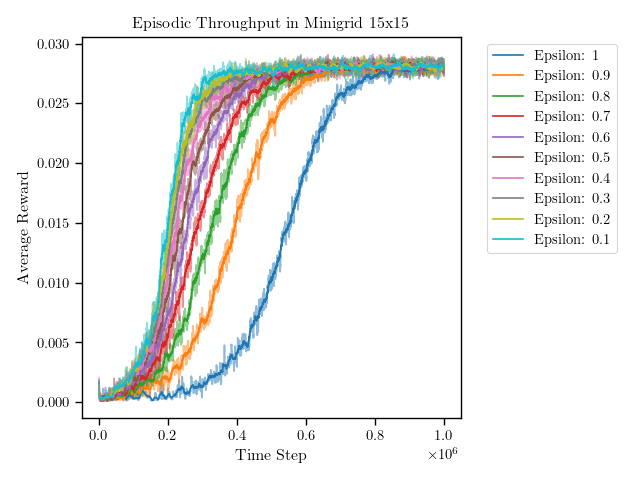
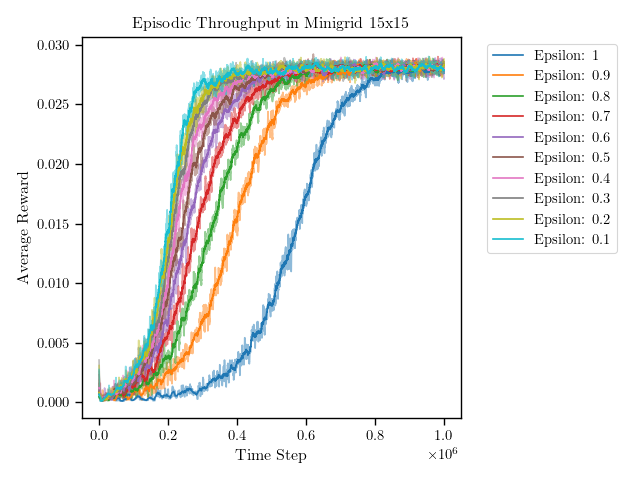
plots

diff --git a/tuning_test.py b/tuning_test.py
@@ -1,0 +1,110 @@
+from environments.MDP import Minigrid_MDP
+from environments.LMDP import Minigrid
+import numpy as np
+import time
+from utils.plot import Plotter, Minigrid_MDP_Plotter
+from models.zlearning import ZLearning, Zlearning_training
+from models.qlearning import QLearning, Qlearning_training
+from utils.lmdp_plot import Minigrid_LMDP_Plotter
+from scipy.sparse import csr_matrix
+
+if __name__ == "__main__":
+
+    grid_size = 15
+    walls = [(14,1), (1,8), (5, 5), (12, 5), (8, 7), (2,5), (3,5), (4,5), (6,5), (7,5), (8,5), (9,5), (10,5), (11,5), (13,5), (15,9)]
+    
+    # MDP
+    minigrid_mdp = Minigrid_MDP(grid_size=grid_size, walls = walls)
+    minigrid_mdp_plots = Minigrid_MDP_Plotter(minigrid_mdp)
+
+    gamma = 1
+    epsilon = 1e-10
+    n_iters = int(4e5)
+
+    # Value Iteration MDP
+    Q, opt_policy, n_steps = minigrid_mdp.value_iteration(epsilon, gamma)
+    
+    # LMDP
+    minigrid = Minigrid(grid_size=grid_size, walls=walls)
+    minigrid_plots = Minigrid_LMDP_Plotter(minigrid)
+
+    # Power Iteration LMDP
+    lmbda = 1
+    Z, n_steps = minigrid.power_iteration(lmbda = lmbda, epsilon=epsilon)
+    print("Power iteration took: ", n_steps, " steps before converging with epsilon:", epsilon)
+    print("\n\n")
+    PU = minigrid.compute_Pu(Z)
+    V = minigrid.Z_to_V(Z)
+
+    # Embedded MDP
+    mdp_minigrid = minigrid.embedding_to_MDP()
+    minigrid_mdp_embedded_plots = Minigrid_MDP_Plotter(mdp_minigrid)
+    start_time = time.time()
+    Q2, opt_policy2, n_steps = mdp_minigrid.value_iteration(epsilon, gamma)
+    print("Value iteration took: ", n_steps, " steps before converging with epsilon:", epsilon)
+    print("--- %s minutes and %s seconds ---" % (int((time.time() - start_time)/60), int((time.time() - start_time) % 60)))
+
+    # epsilons = [1, 0.9, 0.8, 0.7, 0.6, 0.5, 0.4, 0.3, 0.2, 0.1]
+    # q_throughputs = []
+    # q_names = []
+    # q_errors = []
+    # q_policy_differences = []
+
+    # for epsilon in epsilons:
+    #     qlearning = QLearning(mdp_minigrid, gamma=gamma, learning_rate=0.25, learning_rate_decay=0.99995, learning_rate_min=0.0005, epsilon=epsilon, epsilon_decay=0.9995, epsilon_min = 0)
+    #     Q_est, est_policy, _, throughputs = Qlearning_training(qlearning, n_steps=n_iters)
+    #     q_throughputs.append(throughputs)
+    #     q_names.append('Epsilon: ' + str(epsilon))
+    #     q_errors.append(np.sum(np.abs(Q2-Q_est))/np.sum(np.abs(Q2)))
+    #     q_policy_differences.append(np.sum(opt_policy2 != est_policy))
+
+
+    # minigrid_mdp_embedded_plots.plot_throughput(q_throughputs, minigrid.grid_size, names = q_names, save_path='plots\Q_epsilon2')
+    #minigrid_mdp_embedded_plots.plot_value_per_hyperparameter(q_errors, epsilons, title = 'Value Function Approximation Error by Exploration', xlabel = 'Epsilon', ylabel = 'Approximation Error', save_path = 'plots\Q_epsilon_error2')
+    #minigrid_mdp_embedded_plots.plot_value_per_hyperparameter(q_policy_differences, epsilons, title = 'Policy Differences by Exploration', xlabel = 'Epsilon', ylabel = 'Policy Differences', save_path = 'plots\Q_epsilon_policy_difference2')
+
+    # epsilon_decays = [0.9995, 0.999, 0.995, 0.99]
+    # q_throughputs = []
+    # q_names = []
+    # q_errors = []
+    # q_policy_differences = []
+    
+    # for epsilon_decay in epsilon_decays:
+    #     qlearning = QLearning(mdp_minigrid, gamma=gamma, learning_rate=0.25, learning_rate_decay=0.99999, learning_rate_min=0.0005, epsilon=1, epsilon_decay=epsilon_decay, epsilon_min = 0)
+    #     Q_est, est_policy, _, throughputs = Qlearning_training(qlearning, n_steps=n_iters)
+    #     # Get the number of iterations needed to converge according to throughputs
+    #     q_throughputs.append(throughputs)
+    #     q_names.append('Epsilon Decay: ' + str(epsilon_decay))
+    #     q_errors.append(np.sum(np.abs(Q2-Q_est))/np.sum(np.abs(Q2)))
+    #     q_policy_differences.append(np.sum(opt_policy2 != est_policy))
+
+
+
+    # minigrid_mdp_embedded_plots.plot_throughput(q_throughputs, minigrid.grid_size, names = q_names, save_path='plots\Q_epsilon_decays2')
+    # minigrid_mdp_embedded_plots.plot_value_per_hyperparameter(q_errors, epsilon_decays, title = 'Value Function Approximation Error by Exploration Decay', xlabel = 'Epsilon Decay', ylabel = 'Approximation Error', save_path = 'plots\Q_epsilon_decay_error2')
+    # minigrid_mdp_embedded_plots.plot_value_per_hyperparameter(q_policy_differences, epsilon_decays, title = 'Policy Differences by Exploration Decay', xlabel = 'Epsilon Decay', ylabel = 'Policy Differences', save_path = 'plots\Q_epsilon_decay_policy_difference2')
+
+
+    #learning_rate_decays = [1, 0.9999, 0.995, 0.99]
+    learning_rates = [1, 0.75, 0.5, 0.25, 0.1, 0.05, 0.01]
+    q_throughputs = []
+    q_names = []
+    q_errors = []
+    q_policies = []
+    
+    for learning_rate in learning_rates:
+        qlearning = QLearning(mdp_minigrid, gamma=gamma, learning_rate=learning_rate, learning_rate_decay=0.9999, learning_rate_min=0.0005, epsilon=1, epsilon_decay=0.9995, epsilon_min = 0)
+        #zlearning = ZLearning(minigrid, lmbda=1, learning_rate=0.25, learning_rate_decay=0.99999, learning_rate_min=0.0005)
+        Q_est, est_policy, _, throughputs = Qlearning_training(qlearning, n_steps=n_iters)
+        #_, _, z_throughputs = Zlearning_training(zlearning, n_steps=n_iters)
+        #Pu = zlearning.Pu
+        #q_throughputs.append(z_throughputs)
+        q_names.append('Learning Rate: ' + str(learning_rate))
+        q_errors.append(np.sum(np.abs(Q2-Q_est))/np.sum(np.abs(Q2)))
+        q_policies.append(1-np.sum(opt_policy2 != est_policy)/mdp_minigrid.n_states)
+        #q_policies.append(1-np.sum(np.abs(PU-zlearning.Pu))/np.sum(PU))
+
+
+    minigrid_mdp_embedded_plots.plot_throughput(q_throughputs, minigrid.grid_size, names = q_names, save_path='plots\Q_learning_rate')
+    minigrid_mdp_embedded_plots.plot_value_per_hyperparameter(q_errors, learning_rates, title = 'Value Function Approximation Error by Learning Rate', xlabel = 'Learning Rate', ylabel = 'Approximation Error', save_path = 'plots\Q_learning_rate_error')
+    minigrid_mdp_embedded_plots.plot_value_per_hyperparameter(q_policies, learning_rates, title = 'Optimal Policy Approximation by Learning Rate', xlabel = 'Learning Rate', ylabel = 'Optimal Policy Approximation', save_path = 'plots\Q_learning_rate_policy')

diff --git a/test.py b/test.py
@@ -113,41 +113,3 @@ if __name__ == "__main__":
     # #plot_episode_length(lengths, minigrid_mdp.shortest_path_length(opt_policy), plot_batch=True)
     # q_averaged_throughputs2 = plot_episode_throughput(throughputs, minigrid_mdp.shortest_path_length(opt_policy), plot_batch=True)
 
-    # epsilons = [1, 0.9, 0.8, 0.7, 0.6, 0.5, 0.4, 0.3, 0.2, 0.1]
-    # q_throughputs = []
-    # q_names = []
-    # q_errors = []
-    # q_policy_differences = []
-
-    # for epsilon in epsilons:
-    #     qlearning = QLearning(mdp_minigrid, gamma=gamma, learning_rate=0.25, learning_rate_decay=0.99999, learning_rate_min=0.0005, epsilon=epsilon, epsilon_decay=0.9995, epsilon_min = 0)
-    #     Q_est, est_policy, _, throughputs = Qlearning_training(qlearning, n_steps=n_iters)
-    #     q_throughputs.append(throughputs)
-    #     q_names.append('Epsilon: ' + str(epsilon))
-    #     q_errors.append(np.sum(np.abs(Q2-Q_est))/np.sum(np.abs(Q2)))
-    #     q_policy_differences.append(np.sum(opt_policy2 != est_policy))
-
-
-    # minigrid_mdp_embedded_plots.plot_throughput(q_throughputs, minigrid.grid_size, names = q_names, save_path='plots\Q_epsilon')
-    # minigrid_mdp_embedded_plots.plot_value_per_hyperparameter(q_errors, epsilons, title = 'Value Function Approximation Error by Exploration', xlabel = 'Epsilon', ylabel = 'Approximation Error', save_path = 'plots\Q_epsilon_error')
-    # minigrid_mdp_embedded_plots.plot_value_per_hyperparameter(q_policy_differences, epsilons, title = 'Policy Differences by Exploration', xlabel = 'Epsilon', ylabel = 'Policy Differences', save_path = 'plots\Q_epsilon_policy_difference')
-
-
-    epsilon_decays = [0.9999, 0.99975]#, 0.9995, 0.99925, 0.999, 0.995, 0.99, 0.95, 0.9, 0.5]
-    q_throughputs = []
-    q_names = []
-    q_errors = []
-    q_policy_differences = []
-
-    for epsilon_decay in epsilon_decays:
-        qlearning = QLearning(mdp_minigrid, gamma=gamma, learning_rate=0.25, learning_rate_decay=0.99999, learning_rate_min=0.0005, epsilon=1, epsilon_decay=epsilon_decay, epsilon_min = 0)
-        Q_est, est_policy, _, throughputs = Qlearning_training(qlearning, n_steps=n_iters)
-        q_throughputs.append(throughputs)
-        q_names.append('Epsilon Decay: ' + str(epsilon))
-        q_errors.append(np.sum(np.abs(Q2-Q_est))/np.sum(np.abs(Q2)))
-        q_policy_differences.append(np.sum(opt_policy2 != est_policy))
-
-
-    minigrid_mdp_embedded_plots.plot_throughput(q_throughputs, minigrid.grid_size, names = q_names, save_path='plots\Q_epsilon_decay')
-    minigrid_mdp_embedded_plots.plot_value_per_hyperparameter(q_errors, epsilon_decays, title = 'Value Function Approximation Error by Exploration Decay', xlabel = 'Epsilon Decay', ylabel = 'Approximation Error', save_path = 'plots\Q_epsilon_decay_error')
-    minigrid_mdp_embedded_plots.plot_value_per_hyperparameter(q_policy_differences, epsilon_decays, title = 'Policy Differences by Exploration Decay', xlabel = 'Epsilon Decay', ylabel = 'Policy Differences', save_path = 'plots\Q_epsilon_decay_policy_difference')

diff --git a/utils/plot.py b/utils/plot.py
@@ -25,20 +25,18 @@ class Plotter:
         for i in range(len(names)):
             temp_df = pd.DataFrame()
             temp_df['rewards'] = throughputs[i]
-            temp_df['smoothed_rewards'] = temp_df['rewards'] .rolling(window=smooth_window, center=True).mean()
-            temp_df['rewards'] = temp_df['rewards'] .rolling(window=int(smooth_window/5), center=True).mean()
+            temp_df['smoothed_rewards'] = temp_df['rewards'].rolling(window=smooth_window, min_periods=1, center=True).mean()
+            temp_df['rewards'] = temp_df['rewards'] .rolling(window=int(smooth_window/5), min_periods=1, center=True).mean()
             temp_df['index'] = range(len(throughputs[i]))
             temp_df['name'] = names[i]
             df = pd.concat([df, temp_df.reset_index(drop=True)], ignore_index=True)
         
         ax = sns.lineplot(data=df, x='index', y='rewards', hue='name', alpha=0.5, legend=False)
-        print("1")
         ax = sns.lineplot(data=df, x='index', y='smoothed_rewards', hue='name', alpha=1.0)
-        print("2")
         ax.ticklabel_format(style="sci", scilimits=(0, 0), axis="x")
-        ax.set(xlabel="Time Step", ylabel="Average Reward")
+        ax.set(xlabel="Time Step", ylabel="Episodic Reward")
         plt.legend(bbox_to_anchor=(1.05, 1), loc='upper left')
-        plt.title("Episodic Throughput in Minigrid " + str(grid_size) + "x"+ str(grid_size))
+        plt.title("Episodic Throughput in Minigrid " + str(grid_size) + "x"+ str(grid_size) + "Walls")
         plt.tight_layout()
         plt.savefig(save_path + str(grid_size) + 'throughputs.png')
         plt.show()
@@ -97,6 +95,7 @@ class Plotter:
         plt.title(title)
         plt.savefig(save_path + title + '.png')
         plt.show()
+        plt.clf()
 
     def plot_convergence(self, Opt, Est, model = 'Z-learning'):
         diff = np.abs(Est - Opt).mean(axis=(1))
